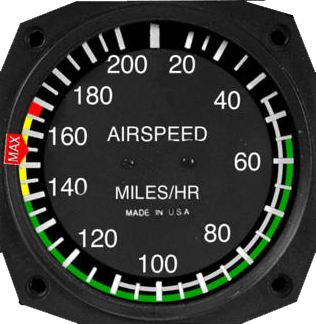
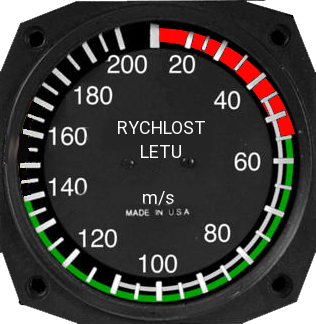
Úprava budíků do češtiny a změna barevné stupnice

diff --git a/src/airsimulator/GUI/PlayWindow.java b/src/airsimulator/GUI/PlayWindow.java
@@ -145,7 +145,7 @@ public class PlayWindow extends JFrame implements KeyListener {
         super.setSize(750, 610);
         super.setLocation(dim.width / 2 - super.getSize().width / 2, dim.height / 2 - super.getSize().height / 2);
 
-        //super.setResizable(false);
+        super.setResizable(false);
         super.setVisible(true);
         super.setDefaultCloseOperation(JFrame.EXIT_ON_CLOSE);
 
@@ -409,7 +409,7 @@ public class PlayWindow extends JFrame implements KeyListener {
             try {
                 logo = ImageIO.read(new File("resources/logo.jpg"));
                 speedmeter = ImageIO.read(new File("resources/airspeed.png"));
-                altimeter = speedmeter;
+                altimeter = ImageIO.read(new File("resources/altimeter.png"));;
                 
             } catch (IOException ex) {
                 Logger.getLogger(PlayWindow.class.getName()).log(Level.SEVERE, null, ex);
@@ -444,7 +444,7 @@ public class PlayWindow extends JFrame implements KeyListener {
            
             
             drawAirSpeedValue(airplane.getHorizontalSpeed(), g);
-            drawSomeSpeedValue(airplane.getVerticalSpeed(), g);
+            drawVerticalSpeedValue(airplane.getVerticalSpeed(), g);
             
             g.setColor(Color.WHITE);
             g.fillRect(525, 5, 190, 160);
@@ -475,22 +475,33 @@ public class PlayWindow extends JFrame implements KeyListener {
             g2d.dispose();
         }
 
-        private void drawSomeSpeedValue(int i, Graphics g){
+        private void drawVerticalSpeedValue(int i, Graphics g){
             Graphics2D g2d = (Graphics2D) g.create();
             g2d.drawImage(altimeter, 330, 10, 150, 150, null);
             g2d.setColor(Color.WHITE);
             
             i = i * 180 / 100;
-            i = Math.abs(i);
             
             int x = 400;
             int y = 40;
             int w = 7;
             int h = 50;
 
-            Rectangle rect1 = new Rectangle(x, y, w, h);
-            g2d.rotate(Math.toRadians(i), rect1.x + w, rect1.y + h);
+            // kontrolka směru pohybu (nahoru nebo dolů)
             g2d.setColor(Color.RED);
+            if(i > 0) {
+                g2d.fillOval(458, 23, 10, 10);
+            } else if (i < 0) {
+                g2d.fillOval(458, 136, 10, 10);
+            }
+            
+            
+            i = Math.abs(i);
+            if(i > 350) {
+                i = 350;
+            }
+            Rectangle rect1 = new Rectangle(x, y, w, h);
+            g2d.rotate(Math.toRadians(i), rect1.x + w, rect1.y + h);            
             g2d.fill(rect1);
             g2d.setColor(Color.WHITE);
             g2d.draw(rect1);
